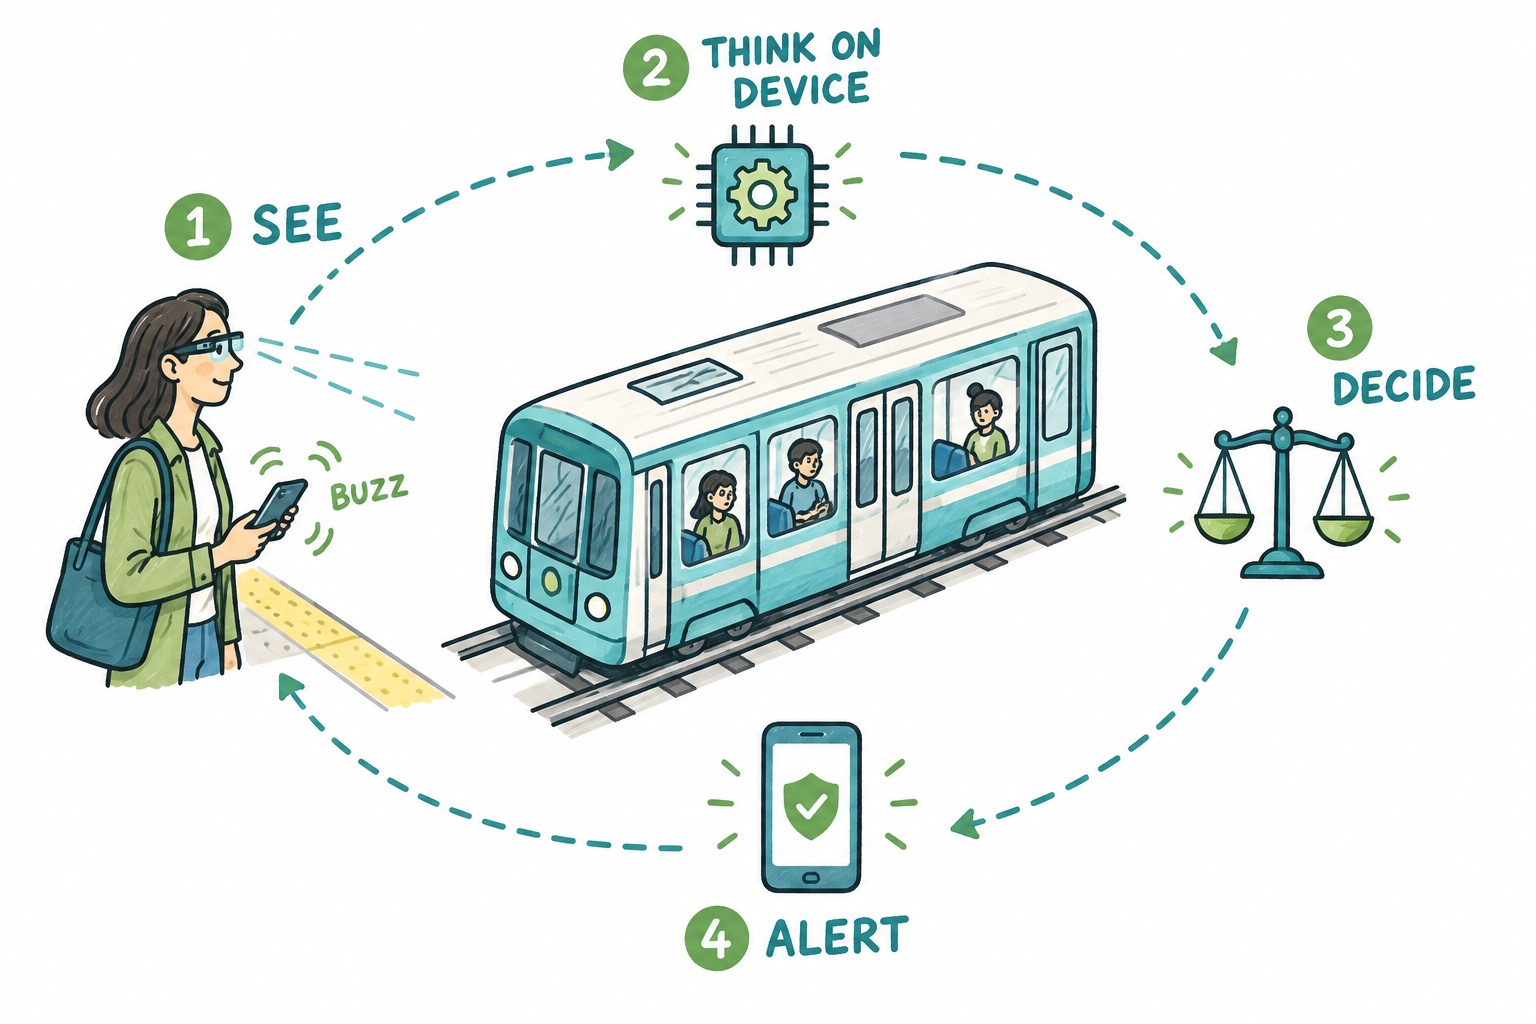
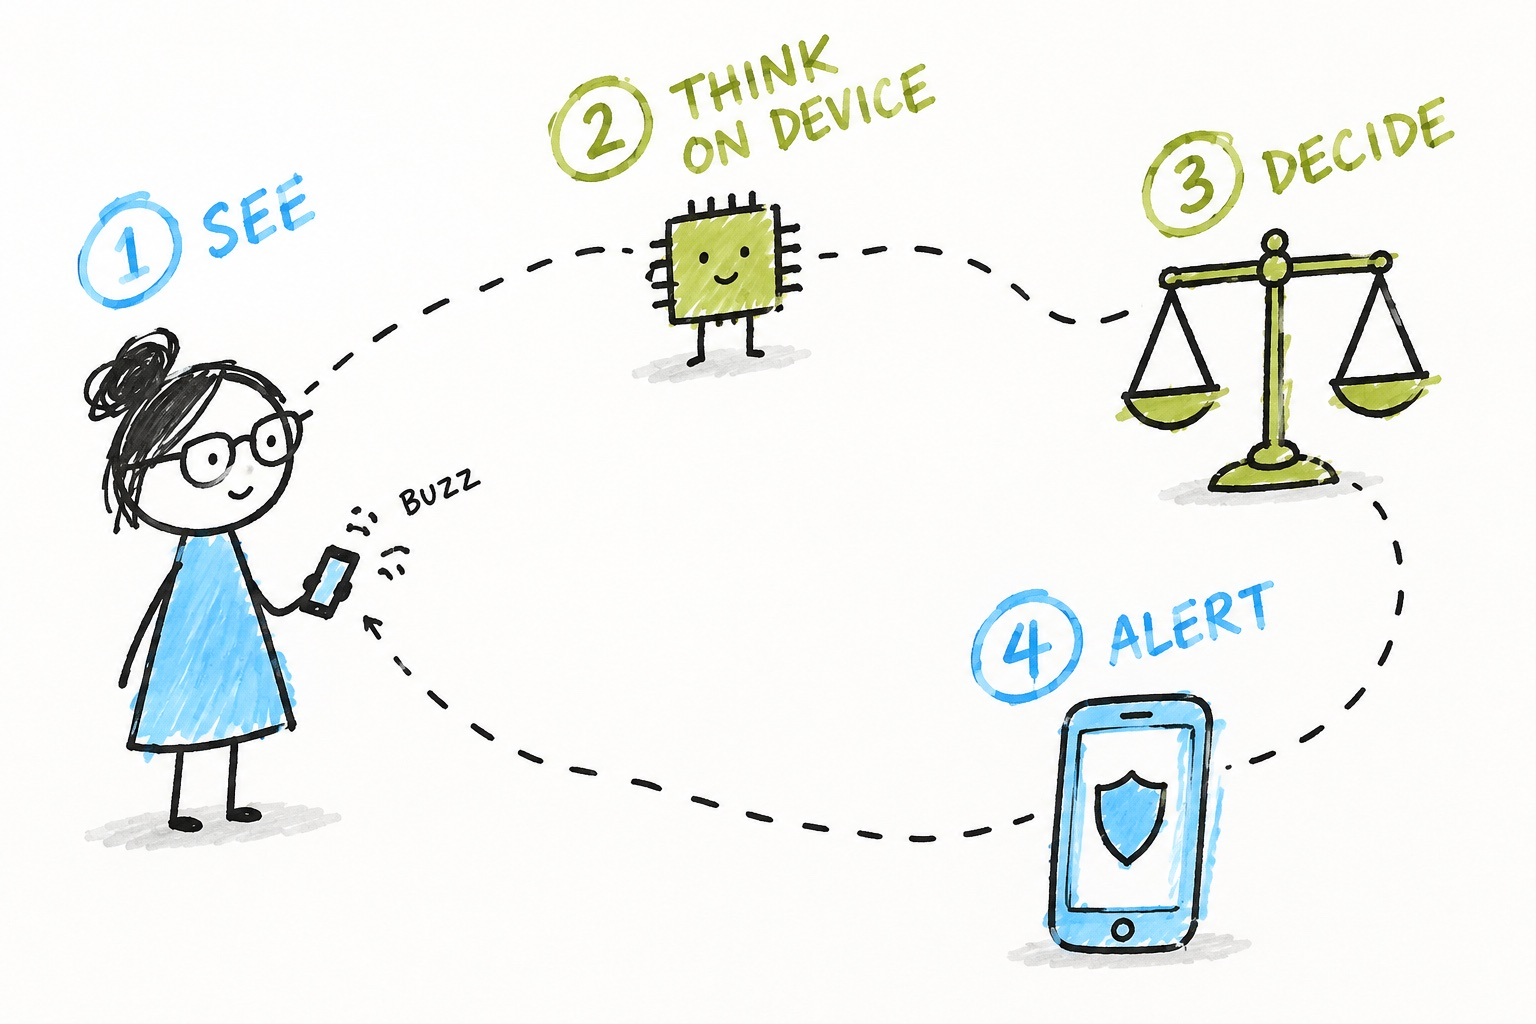
SafeVision: simpler hand drawn loop sketch

diff --git a/work/safevision/index.html b/work/safevision/index.html
@@ -182,7 +182,7 @@
       <h3>The loop in one picture</h3>
       <p>The loop runs all the time. The glasses see the scene, think about it on the device, and decide whether anything has changed. Only then do they alert the rider: a signal in the lens and a buzz on the phone, where one tap calls or shares location.</p>
       <figure class="figure sketch-wide">
-        <img src="images/how-flow.jpg" width="1536" height="1024" loading="lazy" alt="Hand drawn sketch of the SafeVision loop around a subway train. 1 See: a rider on the platform wearing smart glasses. 2 Think on device: a small chip. 3 Decide: a balance scale. 4 Alert: a phone showing a shield, with a buzz back to the rider's hand." />
+        <img src="images/how-flow.jpg?v=2" width="1536" height="1024" loading="lazy" alt="Hand drawn doodle of the SafeVision loop. 1 See: a rider wearing glasses. 2 Think on device: a small chip. 3 Decide: a balance scale. 4 Alert: a phone with a shield. A dashed line runs back to the phone in the rider's hand, which buzzes." />
       </figure>
 
       <h3>The pipeline</h3>
